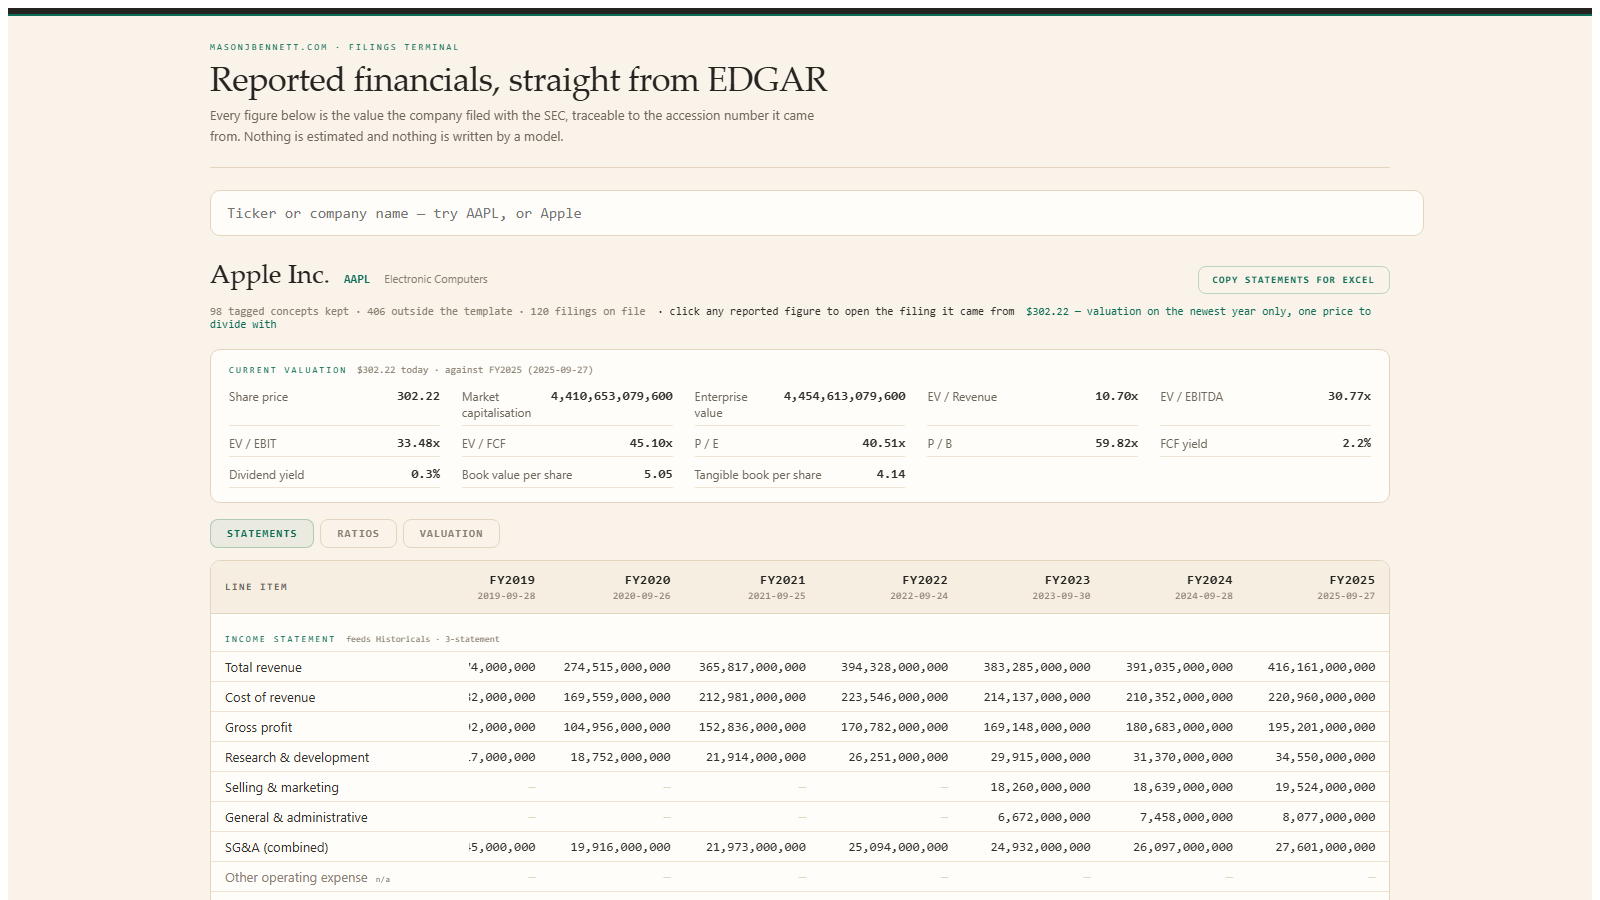
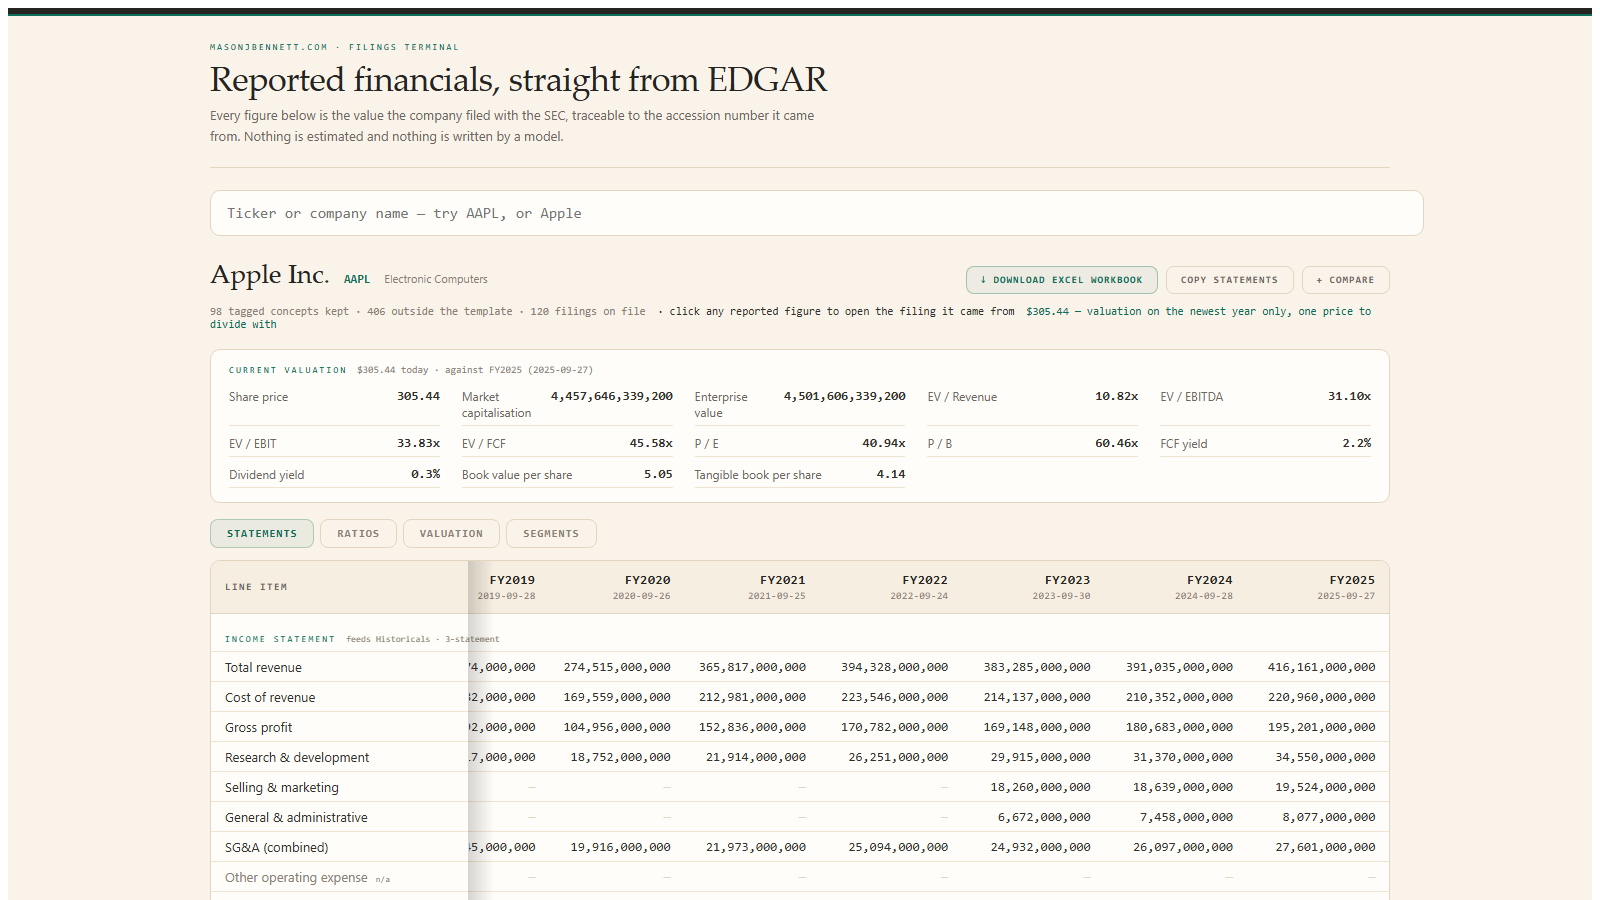
Filings Terminal card: bring the description and screenshot current
The description still said "tested against more than fifty real companies" and
did not mention the Excel workbook, comps sets or the segments tab, all of which
are live. It now says 426 companies picked six deliberately different ways -
largest filers, small and micro caps, foreign issuers, fiscal-year changes,
restatements and bankruptcy emergences - because each population breaks the tool
in its own way, with two of the actual catches named.

The screenshot was worse than the text: dated Aug 12, three tabs rather than
four, a button reading "Copy statements for Excel" rather than the workbook
download, no + Compare - and it showed Apple's FY2019 revenue as '4,000,000, the
column-truncation bug fixed earlier today. Replaced with a fresh 1600x900
capture from production.

diff --git a/src/App.jsx b/src/App.jsx
@@ -31,7 +31,7 @@ const PORTFOLIO = [
   { ticker: "BTC", name: "Bitcoin", weight: 5, type: "Crypto" },
 ];
 const PROJECTS = [
-  { title: "Filings Terminal", desc: "Type in a ticker and get eight years of a company's financial statements in a few seconds, pulled straight from the reports it files with the SEC. Every figure on the page is clickable — it opens the actual filing that number came from, so anyone can check the work instead of taking it on trust. Nothing is estimated and no AI touches the data. The hard part is that companies don't report in a common format: they label the same line differently from one another, change those labels over the years, and quietly restate old figures. So the tool reads all 10,387 US public companies on their own terms, and rebuilds the sheet around the kind of business it is looking at — a bank, an insurer and a property trust are judged on completely different measures, and each gets the ones analysts actually use. Where a company simply never reported something, it says so plainly rather than guessing. Built and tested against more than fifty real companies.", tags: ["React", "SEC Filings", "Financial Statements", "Serverless"], status: "Live", completed: "Aug 2026", updated: "Aug 12, 2026", img: "/projects/filings-terminal.png", url: "https://github.com/masonjbennett/filings-terminal", demo: "https://filings.masonjbennett.com" },
+  { title: "Filings Terminal", desc: "Type in a ticker and get eight years of a company's financial statements in a few seconds, pulled straight from the reports it files with the SEC. Every figure on the page is clickable — it opens the actual filing that number came from, so anyone can check the work instead of taking it on trust. Nothing is estimated and no AI touches the data. It exports to a real Excel workbook, puts companies side by side as a comps sheet, and breaks a company down into the business segments it reports. The hard part is that companies don't report in a common format: they label the same line differently from one another, change those labels over the years, quietly restate old figures, and report in different currencies. So the tool reads all 10,387 US public companies on their own terms, and rebuilds the sheet around the kind of business it is looking at — a bank, an insurer and a property trust are judged on completely different measures, and each gets the ones analysts actually use. Where a company simply never reported something, it says so plainly rather than guessing. Checked against 426 companies picked six deliberately different ways — the largest filers, small and micro caps, foreign issuers, companies that changed their fiscal year, companies that restated, and companies coming out of bankruptcy — because each group breaks it in its own way. That is how it caught a company showing ten months as if it were a full year, and another whose figures were sixteen years out of date.", tags: ["React", "SEC Filings", "XBRL", "Financial Statements", "Serverless"], status: "Live", completed: "Aug 2026", updated: "Aug 17, 2026", img: "/projects/filings-terminal.png", url: "https://github.com/masonjbennett/filings-terminal", demo: "https://filings.masonjbennett.com" },
   { title: "ML Credit Default Classifier", desc: "A machine-learning credit-risk study on a 70,000-loan near-prime dataset that reached 0.9931 ROC-AUC, up from a 0.58 gradient-boosting baseline — through pairwise-interaction features, PCA noise-filtering, pseudo-labelling, and a 60-seed bagged neural-network ensemble with per-fold LightGBM feature selection. I directed the project and reviewed and interpreted the full six-stage workflow; the coding and much of the experimental brainstorming were AI-driven, which the course explicitly encouraged. The write-up documents every stage, ablation, and negative result.", tags: ["Machine Learning", "AI-Directed", "Ensembling & PCA", "Credit Risk"], status: "Completed", completed: "May 2026", url: "/projects/fda2-report.pdf" },
   { title: "Personal Budgeting App", desc: "Full-stack personal finance tool with 11 modules: income & tax estimation (all 50 states, 2026 IRS brackets), 50/30/20 budget builder, expense tracking with CSV import and recurring templates, net worth monitoring, debt payoff planner (avalanche vs snowball), savings goals, investment projector with 401(k) career match calculator, FIRE calculator, and tax optimizer. Month-over-month dashboard with historical navigation.", tags: ["Python", "Streamlit", "Personal Finance", "Tax Planning"], status: "Completed", completed: "Apr 2026", updated: "Apr 12, 2026", img: "/projects/budgeting-app.png", url: "https://github.com/masonjbennett/budgeting-app", demo: "https://masonbennett-budget.streamlit.app/" },
   { title: "Portfolio Analytics App", desc: "Real-time equity portfolio construction and optimization tool with 6 analytical modules. Mean-variance optimization (GMV & Tangency), efficient frontier with CAL, CAPM beta/alpha regression, risk contribution decomposition (PRC), and estimation window sensitivity analysis. Features a tiered tooltip system (Beginner/Intermediate/Advanced) that adapts explanations to the user's knowledge level, custom portfolio builder with live frontier plotting, and CSV/Excel export.", tags: ["Python", "Streamlit", "Portfolio Optimization", "scipy"], status: "Completed", completed: "Apr 2026", updated: "Apr 11, 2026", img: "/projects/portfolio-app.png", url: "https://github.com/masonjbennett/portfolio-app", demo: "https://portfolio-app-ifh8afmcuxkyr6ivov9fmj.streamlit.app/" },
